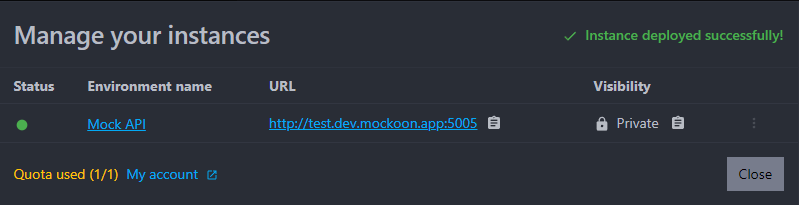
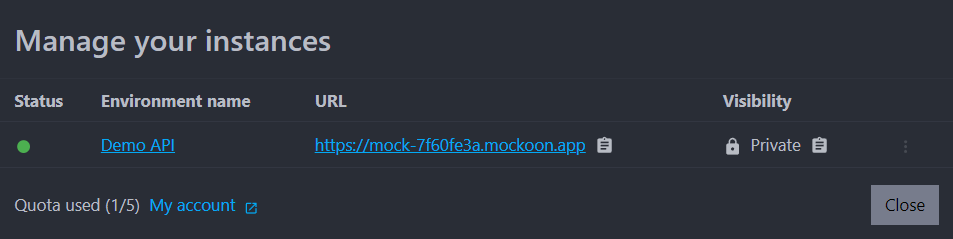
Update docs for cloud deployments simplified URLs

diff --git a/pages/public-roadmap.tsx b/pages/public-roadmap.tsx
@@ -44,6 +44,12 @@ const tasks: {
 } = {
   released: [
     {
+      link: '/docs/latest/mockoon-cloud/api-mock-cloud-deployments/#deploy-an-environment-to-the-cloud',
+      title: 'Simplified cloud deployments URLs',
+      cloud: true,
+      target: null
+    },
+    {
       link: '/releases/9.1.0/#cloud-deployments',
       title: 'Custom sub domains in cloud deployments',
       cloud: true,
@@ -113,12 +119,6 @@ const tasks: {
       link: '/releases/8.4.0/#random-latencies',
       title: 'Randomized lantency',
       cloud: false,
-      target: null
-    },
-    {
-      link: '/docs/latest/mockoon-cloud/api-mock-cloud-deployments/',
-      title: 'API deployments in the cloud',
-      cloud: true,
       target: null
     }
   ],

diff --git a/content/docs/latest/mockoon-cloud/api-mock-cloud-deployments.md b/content/docs/latest/mockoon-cloud/api-mock-cloud-deployments.md
@@ -22,7 +22,7 @@ You can **deploy an environment** to the cloud using the context menu in the loc
 
 In the deployment dialog, you can further customize your instance:
 
-- **Subdomain**: The default subdomain is generated automatically, but you can customize it to a unique value. The subdomain will be part of the instance URL (e.g. `https://{subdomain}.serverid.mockoon.app`).
+- **Subdomain**: The default subdomain is generated automatically, but you can customize it to a unique value. The subdomain will be part of the instance URL (e.g. `https://{subdomain}.mockoon.app`).
 - **Visibility**:
   - **Public**: The environment will be accessible to anyone with the URL.
   - **Private**: The environment will be accessible only to users with the URL and the **API key** (see [Instance URL and visibility](#instance-url-and-visibility) below).
@@ -42,7 +42,7 @@ In the management dialog, you can **re-deploy** the environment or **delete** th
 
 ## Instance URL and visibility
 
-The instance will be deployed on a shared cloud infrastructure and will be accessible using a unique URL in the form of `https://mock-abcd1234.serverid.mockoon.app`. The URL will be displayed in the management dialog and can be shared with your team, clients, or class. You can also customize the subdomain part of the URL when deploying the environment.
+The instance will be deployed on a shared cloud infrastructure and will be accessible using a unique URL in the form of `https://mock-abcd1234.mockoon.app`. The URL will be displayed in the management dialog and can be shared with your team, clients, or class. You can also customize the subdomain part of the URL when deploying the environment.
 
 The visibility of the environment can be set to **public** or **private**. Here are the differences between the two:
 
@@ -72,11 +72,11 @@ Some **quotas and limits apply** to the cloud deployment feature. Here are the m
 - **Solo plan**:
   - 1 cloud deployment.
   - 50&nbsp;000 requests per month.
-  - 3 requests per second (1 request per second during trial).
+  - 3 requests per second (2 request per second during trial).
 - **Team plan**:
   - 3 cloud deployments.
   - 100&nbsp;000 requests per month.
-  - 5 requests per second (1 request per second during trial).
+  - 5 requests per second (2 request per second during trial).
 
 These quotas and limits are subject to change. Please refer to your [account settings](/account/subscription/) for the latest information.
 
@@ -86,5 +86,5 @@ The cloud deployment feature is still in its early stages. Here are some improve
 
 - Support for [**environment variables**](docs:admin-api/environment-variables).
 - Offer more instance locations and the ability to choose the closest one.
-- Possibility to customize the instance URL or link a custom domain to the instance.
+- Possibility to link a custom domain to the instance.
 - Possibility to renew the API key.
